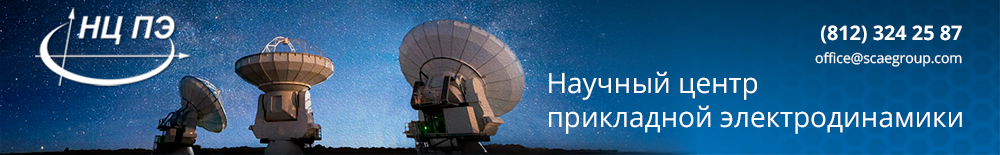
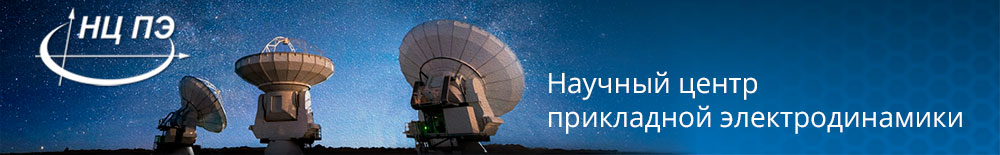
header contacts

diff --git a/app/assets/stylesheets/style.css b/app/assets/stylesheets/style.css
@@ -144,16 +144,27 @@ body {
 	font-size: 48px;
 	text-shadow: 0 1px 2px #333, 0 1px 2px #333, 0 1px 3px #555;
 }
+*/
 
 .header_contacts {
 	height: 40px;
-	width: 500px;
+	width: 200px;
 	position: absolute;
-	top: 75px;
-	right: -45px;
+	top: 20px;
+	right: 35px;
 	color: #fff;
 }
-*/
+
+.header-tel {
+	font-size: 25px;
+	float: right;
+}
+
+.header-email {
+	float: right;
+}
+
+
 .picta {
 	height: 12px;
 	width: 70px;
